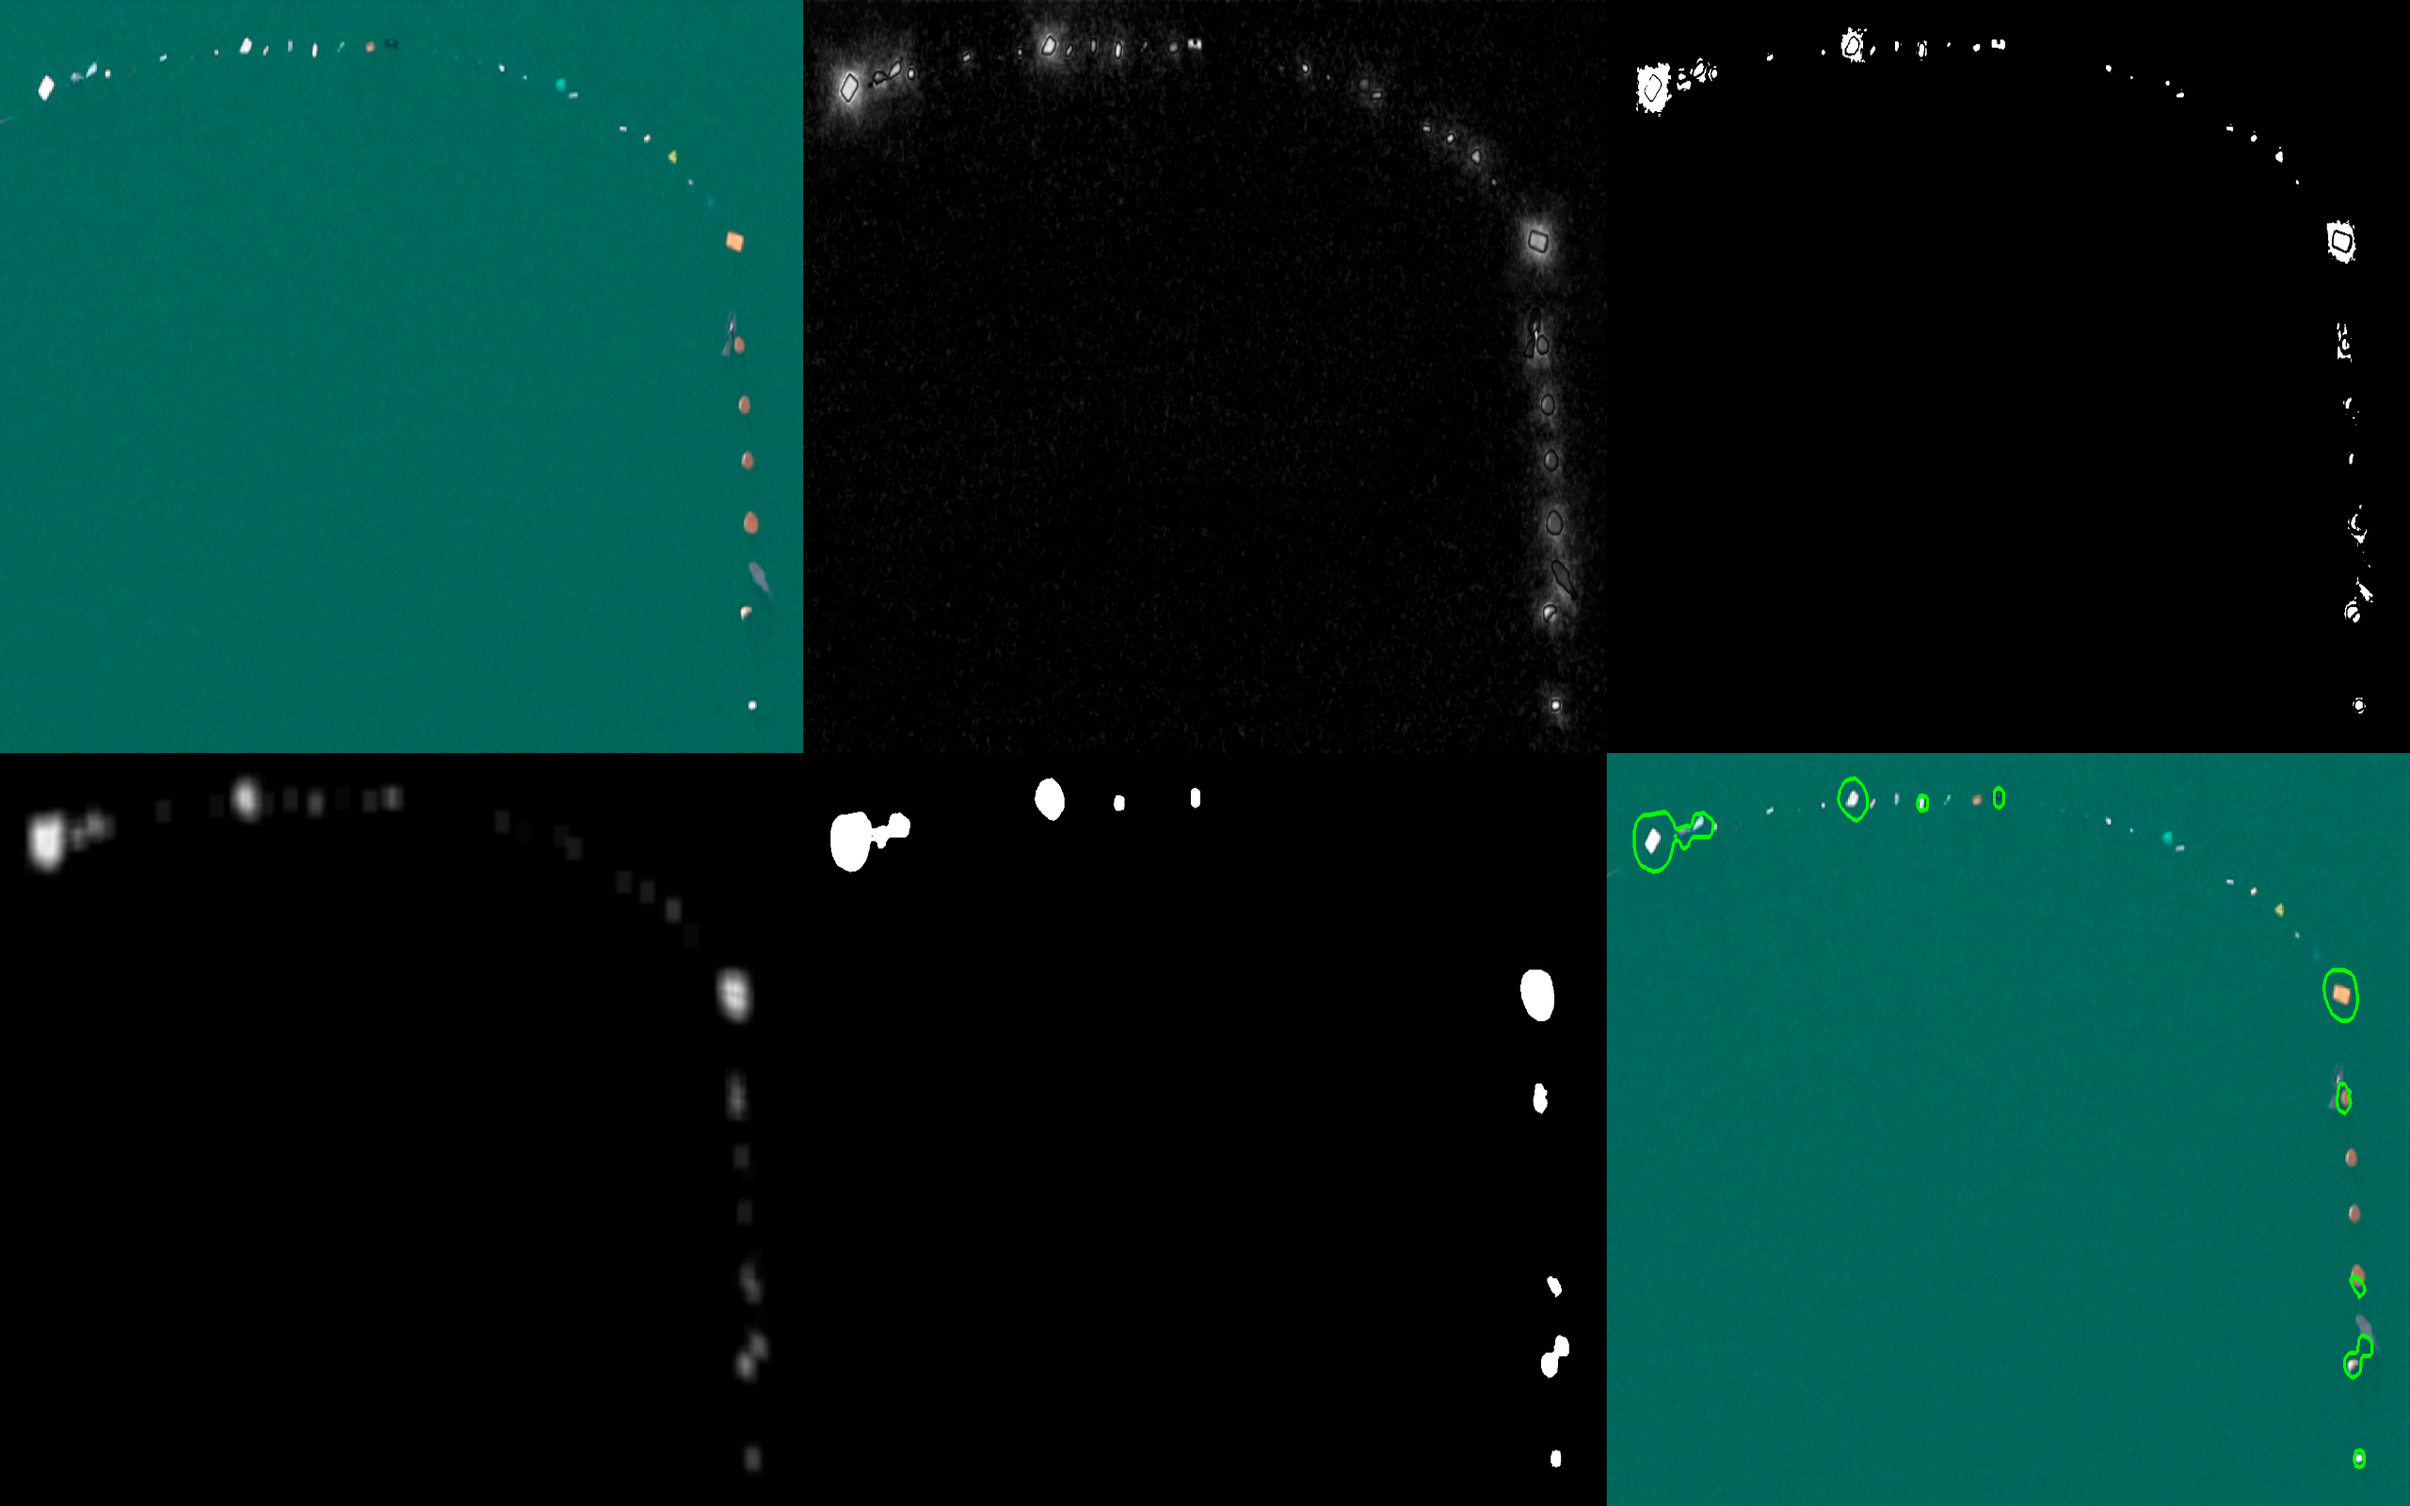
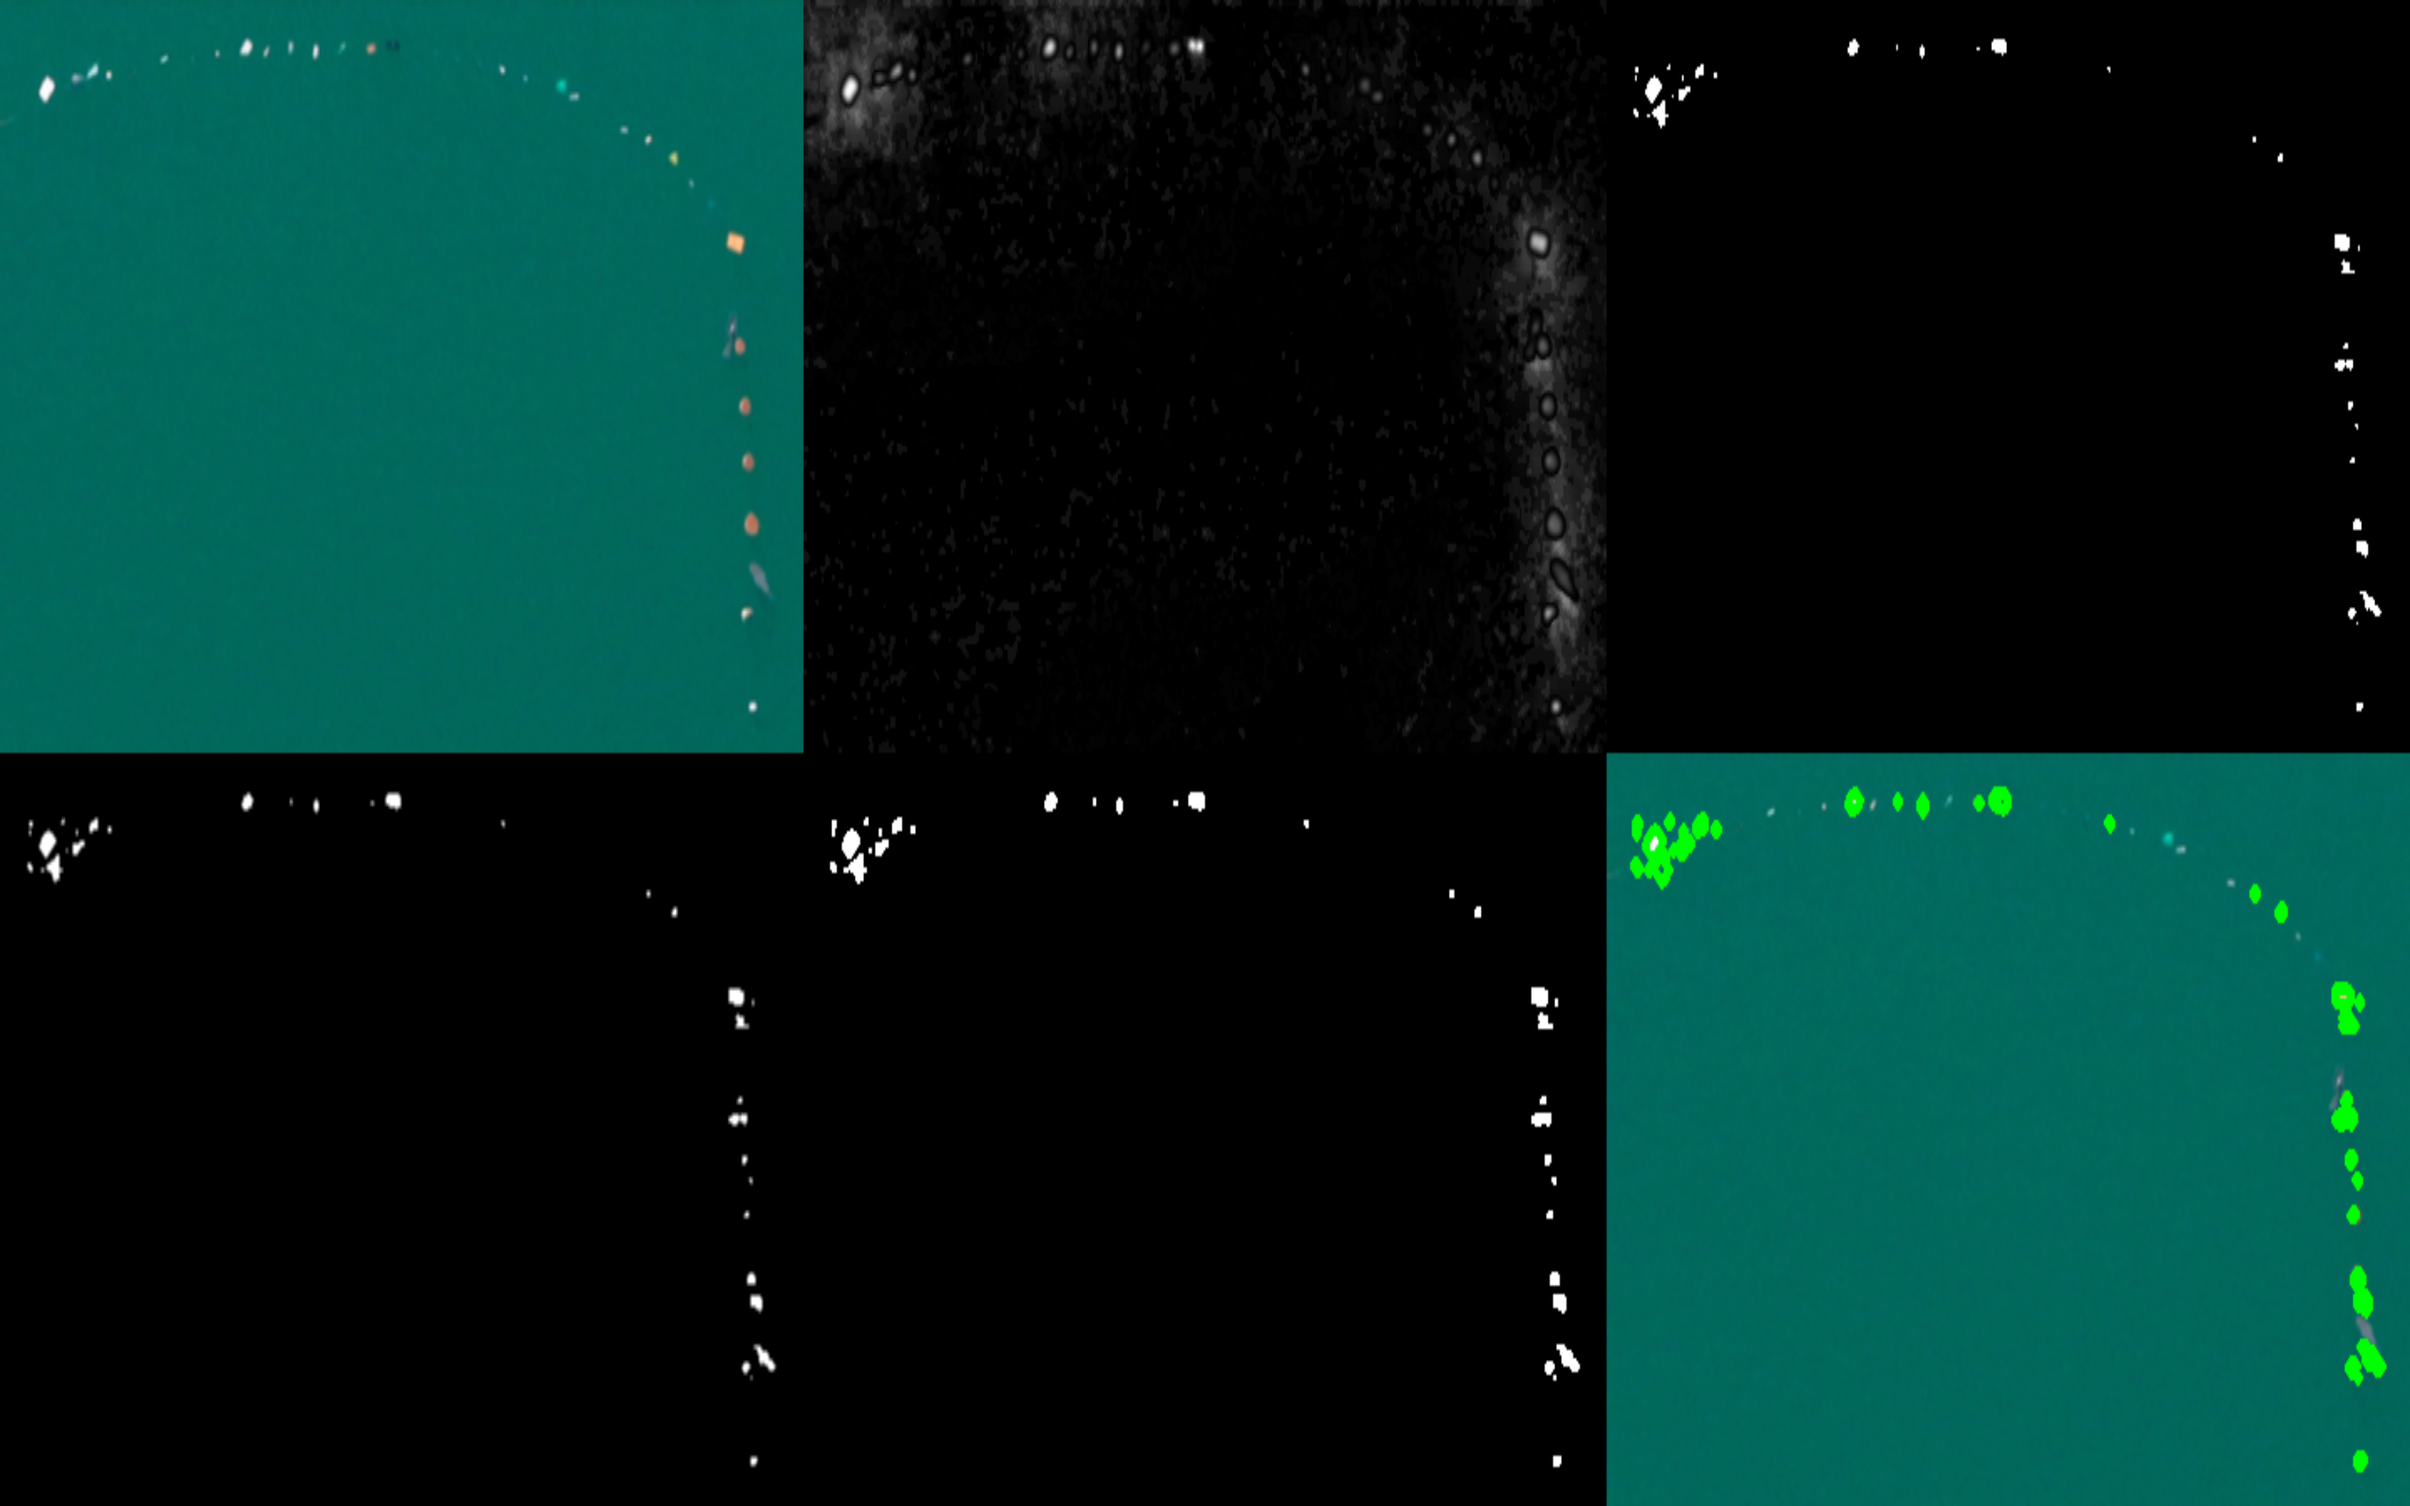
Take two on pushin

diff --git a/OpenCV Saliency Detection Testing/saliency+canny-edge_batch_process.py b/OpenCV Saliency Detection Testing/saliency+canny-edge_batch_process.py
@@ -1,3 +1,4 @@
+from audioop import avg
 import numpy as np
 import cv2
 import time
@@ -10,8 +11,8 @@ import commons
 # Image downsample scaling
 scale = 1
 # Standard image resolution
-hi = 720
-wi = 1280
+hi = 270
+wi = 480
 downsize = True
 con_hi = 1600
 con_wi = 2560
@@ -73,14 +74,31 @@ for i in range(0,len(images)):
     drawn_im = images[i].copy()
     cv2.drawContours(drawn_im, contours, -1, (0,255,0), 3)
 
+    ## Canny Edge Detector
+    low_threshold = 0
+    ratio = 3
+    kernel_size = 3
+    detected_edges = cv2.Canny(frame, low_threshold, low_threshold*ratio, kernel_size)
+    mask = detected_edges != 0
+    print(mask.shape)
+    dst = frame * (mask[:,:,None].astype(frame.dtype))
+    if i==1:
+        cv2.imshow('ass', cv2.hconcat([dst,frame]))
+    print(detected_edges.shape, mask.shape, dst.shape)
+
+    ## Color filtering
+    avg_color_per_row = np.average(frame, axis=0)
+    avg_color = np.average(avg_color_per_row, axis=0)
+    print(avg_color)
+
     # Image Merging
-    hcon1 = cv2.hconcat([images[i], cv2.cvtColor(saliencyMap, cv2.COLOR_GRAY2BGR), cv2.cvtColor(thresh1, cv2.COLOR_GRAY2BGR)])
-    hcon2 = cv2.hconcat([cv2.cvtColor(smoother, cv2.COLOR_GRAY2BGR),cv2.cvtColor(thresh2, cv2.COLOR_GRAY2BGR), drawn_im])
-    displ = cv2.vconcat([hcon1, hcon2])
+    #hcon1 = cv2.hconcat([images[i], cv2.cvtColor(saliencyMap, cv2.COLOR_GRAY2BGR), cv2.cvtColor(thresh1, cv2.COLOR_GRAY2BGR)])
+    #hcon2 = cv2.hconcat([cv2.cvtColor(smoother, cv2.COLOR_GRAY2BGR),cv2.cvtColor(thresh2, cv2.COLOR_GRAY2BGR), drawn_im])
+    #displ = cv2.vconcat([hcon1, hcon2])
 
     # Downsize concat image
-    print(displ.shape)
-    displ = cv2.resize(displ, (con_wi, con_hi))
+    #print(displ.shape)
+    #displ = cv2.resize(displ, (con_wi, con_hi))
 
     # Timings
     end_time = time.time()
@@ -91,7 +109,7 @@ for i in range(0,len(images)):
     im_name_conc = str ('concatd_' + onlyfiles[i])
     im_name_cont = str ('contured_' + onlyfiles[i])
     im_name_sali = str ('saliencyd_' + onlyfiles[i])
-    cv2.imwrite(os.path.join(conc_output , im_name_conc), displ)
+    #cv2.imwrite(os.path.join(conc_output , im_name_conc), displ)
     cv2.imwrite(os.path.join(cont_output, im_name_cont), drawn_im)
     cv2.imwrite(os.path.join(sali_output, im_name_sali), saliencyMap)
 
